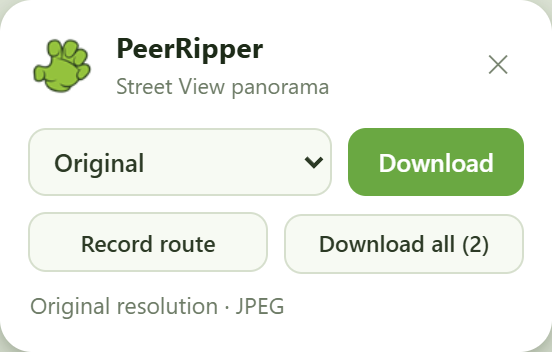
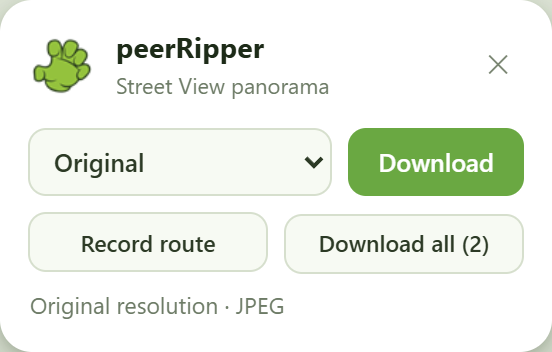
Fix product name casing to peerRipper

Changed region(s): [[0.1848, 0.0938, 0.4928, 0.1875]]

diff --git a/extension/popup.js b/extension/popup.js
@@ -1,4 +1,4 @@
-const api = globalThis.PeerRipperApi;
+const api = globalThis.peerRipperApi;
 const ZOOM_NAMES = { 5: 'Original', 4: 'Half', 3: 'Quarter' };
 const POLL_MS = 800;
 
@@ -60,10 +60,10 @@ function progressText(progress) {
 function noteText() {
     if (running) {
         return batch
-            ? `Downloading ${routeCount} panorama${routeCount === 1 ? '' : 's'} to PeerRipper/.`
+            ? `Downloading ${routeCount} panorama${routeCount === 1 ? '' : 's'} to peerRipper/.`
             : 'Keep this tab open. The file goes to Downloads.';
     }
-    if (!panoid) return 'Open Street View, then reopen PeerRipper.';
+    if (!panoid) return 'Open Street View, then reopen peerRipper.';
     if (recording) return `${routeCount} panorama${routeCount === 1 ? '' : 's'} captured. Move along the route.`;
     if (routeCount) {
         return `${routeCount} panorama${routeCount === 1 ? '' : 's'} recorded · ${ZOOM_NAMES[Number(el.zoom.value)]} resolution`;
@@ -125,7 +125,7 @@ function apply(state) {
         setDetail(panoid);
     } else {
         setStatus('No panorama found', 'bad');
-        setDetail('Enter Street View in this tab, then reopen PeerRipper.');
+        setDetail('Enter Street View in this tab, then reopen peerRipper.');
     }
     sync();
 }
@@ -183,7 +183,7 @@ async function init() {
         recording = false;
         routeCount = 0;
         setStatus('Open Google Maps first', 'bad');
-        setDetail('PeerRipper reads the live Street View panorama from the page.');
+        setDetail('peerRipper reads the live Street View panorama from the page.');
         sync();
         return;
     }

diff --git a/extension/content.js b/extension/content.js
@@ -6,7 +6,7 @@
     const PANOID_PATTERN = /^[A-Za-z0-9_-]{18,28}$/;
     const ROUTE_KEY = '__peerripper_route_v1';
     const MAX_ROUTE = 500;
-    const api = globalThis.PeerRipperApi;
+    const api = globalThis.peerRipperApi;
     const iconUrl = api.runtime.getURL('icons/icon48.png');
 
     const state = {
@@ -208,7 +208,7 @@
                 <header>
                     ${mark()}
                     <div class="titles">
-                        <h1>PeerRipper</h1>
+                        <h1>peerRipper</h1>
                         <p class="sub">Street View panorama</p>
                     </div>
                     <button class="close" type="button" title="Close">&#10005;</button>
@@ -520,8 +520,8 @@
             } else {
                 state.error = null;
                 state.result = Number(message.failures)
-                    ? `Saved ${message.saved} of ${message.count} · ${message.failures} unavailable — PeerRipper/`
-                    : `Saved ${message.saved} panorama${message.saved === 1 ? '' : 's'} — PeerRipper/`;
+                    ? `Saved ${message.saved} of ${message.count} · ${message.failures} unavailable — peerRipper/`
+                    : `Saved ${message.saved} panorama${message.saved === 1 ? '' : 's'} — peerRipper/`;
             }
             sync();
         } else if (message.type === 'pr:failed') {

diff --git a/extension/engine.js b/extension/engine.js
@@ -262,7 +262,7 @@
                         index,
                         count,
                         url: result.url,
-                        filename: `PeerRipper/${String(index + 1).padStart(3, '0')}_${panoids[index]}_${result.width}x${result.height}.jpg`,
+                        filename: `peerRipper/${String(index + 1).padStart(3, '0')}_${panoids[index]}_${result.width}x${result.height}.jpg`,
                         size: result.size,
                         width: result.width,
                         height: result.height,
@@ -296,5 +296,5 @@
         return Boolean(active);
     }
 
-    globalThis.PeerRipperEngine = { startJob, startBatch, cancel, revoke, isBusy };
+    globalThis.peerRipperEngine = { startJob, startBatch, cancel, revoke, isBusy };
 })();

diff --git a/extension/bridge-firefox.js b/extension/bridge-firefox.js
@@ -1,9 +1,9 @@
 // Firefox bridge: background pages have DOM and blob support, so the engine runs
 // inline instead of in an offscreen document.
 (() => {
-    const engine = globalThis.PeerRipperEngine;
+    const engine = globalThis.peerRipperEngine;
 
-    globalThis.PeerRipperBridge = {
+    globalThis.peerRipperBridge = {
         startJob(job, dispatch) {
             if (engine.isBusy()) return Promise.resolve({ ok: false, error: 'Another download is already running.' });
             engine.startJob(job, dispatch).catch(() => {});

diff --git a/extension/bridge-chromium.js b/extension/bridge-chromium.js
@@ -1,7 +1,7 @@
 // Chromium bridge: the service worker cannot create blob URLs, so downloads run in
 // an offscreen document.
 (() => {
-    const api = globalThis.PeerRipperApi;
+    const api = globalThis.peerRipperApi;
     const OFFSCREEN_URL = 'offscreen.html';
 
     let offscreenPromise = null;
@@ -43,7 +43,7 @@
         }
     }
 
-    globalThis.PeerRipperBridge = {
+    globalThis.peerRipperBridge = {
         startJob(job) {
             return start({ type: 'pr:run', job });
         },

diff --git a/extension/popup.html b/extension/popup.html
@@ -2,7 +2,7 @@
 <html lang="en">
 <head>
 <meta charset="utf-8">
-<title>PeerRipper</title>
+<title>peerRipper</title>
 <style>
     * { box-sizing: border-box; }
     body {
@@ -61,7 +61,7 @@
     <header>
         <img id="logo" alt="">
         <div>
-            <h1>PeerRipper</h1>
+            <h1>peerRipper</h1>
             <p class="sub">Street View panorama</p>
         </div>
     </header>

diff --git a/extension/api.js b/extension/api.js
@@ -1,3 +1,3 @@
 // Firefox exposes the promise-based `browser` namespace; Chromium exposes `chrome`,
 // whose MV3 APIs also return promises.
-globalThis.PeerRipperApi = globalThis.browser && globalThis.browser.runtime ? globalThis.browser : globalThis.chrome;
+globalThis.peerRipperApi = globalThis.browser && globalThis.browser.runtime ? globalThis.browser : globalThis.chrome;

diff --git a/extension/background-core.js b/extension/background-core.js
@@ -1,6 +1,6 @@
 (() => {
-    const api = globalThis.PeerRipperApi;
-    const bridge = globalThis.PeerRipperBridge;
+    const api = globalThis.peerRipperApi;
+    const bridge = globalThis.peerRipperBridge;
     const PANOID_PATTERN = /^[A-Za-z0-9_-]{18,28}$/;
     const MAX_BATCH = 500;
 

diff --git a/extension/offscreen.js b/extension/offscreen.js
@@ -1,5 +1,5 @@
 (() => {
-    const engine = globalThis.PeerRipperEngine;
+    const engine = globalThis.peerRipperEngine;
 
     function post(payload) {
         chrome.runtime.sendMessage(payload).catch(() => {});

diff --git a/extension/offscreen.html b/extension/offscreen.html
@@ -2,7 +2,7 @@
 <html>
 <head>
 <meta charset="utf-8">
-<title>PeerRipper download engine</title>
+<title>peerRipper download engine</title>
 </head>
 <body>
 <script src="stitcher.js"></script>

diff --git a/README.md b/README.md
@@ -1,17 +1,17 @@
-# PeerRipper
+# peerRipper
 
 **Download Google Street View panoramas as single, full-resolution JPEGs — stitched locally in your browser.**
 
 [![License: MIT](https://img.shields.io/badge/license-MIT-6aa842.svg)](LICENSE)
 [![Version](https://img.shields.io/badge/version-1.2.0-6aa842.svg)](extension/manifest.base.json)
 
-PeerRipper is a cross-browser extension for **Chrome, Edge, Opera, and Firefox**. When you are looking at a panorama in Google Maps Street View, it fetches the same 512 × 512 JPEG tiles Street View uses, works out the panorama's real tile canvas (for example 10240 × 5120), and splices those tiles into one file at the JPEG coefficient level. There is no server, no screenshotting, and no pixel re-encoding.
+peerRipper is a cross-browser extension for **Chrome, Edge, Opera, and Firefox**. When you are looking at a panorama in Google Maps Street View, it fetches the same 512 × 512 JPEG tiles Street View uses, works out the panorama's real tile canvas (for example 10240 × 5120), and splices those tiles into one file at the JPEG coefficient level. There is no server, no screenshotting, and no pixel re-encoding.
 
 It can also record a route while you move through Street View and download every panorama you visited in one batch.
 
 <p align="center">
-  <img src="docs/screenshots/card.png" width="300" alt="PeerRipper card on a Street View page">
-  <img src="docs/screenshots/popup.png" width="300" alt="PeerRipper toolbar popup">
+  <img src="docs/screenshots/card.png" width="300" alt="peerRipper card on a Street View page">
+  <img src="docs/screenshots/popup.png" width="300" alt="peerRipper toolbar popup">
 </p>
 
 ---
@@ -33,7 +33,7 @@ It can also record a route while you move through Street View and download every
 
 ## Features
 
-- **True full resolution.** PeerRipper probes the tile service to find the exact panorama canvas Google serves, instead of trusting the size hint in the URL. Original resolution can be 10240 × 5120 or larger.
+- **True full resolution.** peerRipper probes the tile service to find the exact panorama canvas Google serves, instead of trusting the size hint in the URL. Original resolution can be 10240 × 5120 or larger.
 - **Quality-preserving stitching.** Tiles are merged in the JPEG DCT domain. The image is never decoded to pixels and re-compressed, so the output retains the source tiles' quality and has no visible seams.
 - **Three resolutions.** Original (native tile resolution), Half, and Quarter for smaller files.
 - **Route recording.** Record the panoramas you visit while moving along a road or path, then download the whole route in one go. Up to 500 panoramas per route.
@@ -53,7 +53,7 @@ It can also record a route while you move through Street View and download every
 
 The Chromium builds use an MV3 service worker with an offscreen document for blob handling. The Firefox build uses an MV3 event page and runs the engine directly in the background page.
 
-> PeerRipper is not yet listed in the browser add-on stores. Build the package and load it locally, or use the ZIP as the upload artifact when submitting to a store.
+> peerRipper is not yet listed in the browser add-on stores. Build the package and load it locally, or use the ZIP as the upload artifact when submitting to a store.
 
 ## Installation
 
@@ -134,8 +134,8 @@ You can cancel at any time with the **Cancel** button. The extension shows the d
 Batch files are saved to a subfolder and numbered in capture order:
 
 ```
-Downloads/PeerRipper/001_<panoid>_<width>x<height>.jpg
-Downloads/PeerRipper/002_<panoid>_<width>x<height>.jpg
+Downloads/peerRipper/001_<panoid>_<width>x<height>.jpg
+Downloads/peerRipper/002_<panoid>_<width>x<height>.jpg
 …
 ```
 
@@ -181,7 +181,7 @@ Google Maps tab
                                              probe → fetch tiles → stitch → save
 ```
 
-- `api.js` exposes `PeerRipperApi`, which prefers the promise-based `browser.*` namespace and falls back to `chrome.*`.
+- `api.js` exposes `peerRipperApi`, which prefers the promise-based `browser.*` namespace and falls back to `chrome.*`.
 - `background-core.js` is browser-neutral: it owns job state, relays progress to the tab, and performs downloads.
 - On Chromium, `bridge-chromium.js` forwards work to an offscreen document (`offscreen.html`) that can create Blob URLs; `downloads.onDeterminingFilename` restores the intended filename for blob downloads.
 - On Firefox, `bridge-firefox.js` calls the engine inline in the background page.
@@ -252,21 +252,21 @@ npx web-ext lint --source-dir dist/firefox
 | `https://streetviewpixels-pa.googleapis.com/*` | Fetch Street View image tiles. |
 | Content script matches on Google Maps domains | Show the in-page pill and read the current panorama ID. |
 
-PeerRipper has **no analytics, telemetry, accounts, remote code, or backend**. The only outbound traffic is tile requests to Google. Recorded routes are stored in the Maps tab's `sessionStorage` and are never synced anywhere.
+peerRipper has **no analytics, telemetry, accounts, remote code, or backend**. The only outbound traffic is tile requests to Google. Recorded routes are stored in the Maps tab's `sessionStorage` and are never synced anywhere.
 
 ## Limitations
 
 - **Street View tiles only.** Photo spheres, some user-contributed uploads, and panoramas that are not served through the web tile service return HTTP 400/404 and cannot be downloaded this way. In batch mode they are skipped and reported.
-- **A panorama must be open.** PeerRipper reads the live panorama from the Maps tab; it does not accept bare place links or arbitrary coordinates.
+- **A panorama must be open.** peerRipper reads the live panorama from the Maps tab; it does not accept bare place links or arbitrary coordinates.
 - **Route capture follows your navigation.** Only panoramas you actually enter while recording are added. Panoramas that the page skips over are not captured.
 - **Resolution is discovered by probing.** Unusual panoramas may report a canvas different from the `!7i/!8i` hint, which is expected.
 - **Firefox temporary installs do not survive restart.** Permanent installation requires a signed build.
 - **Street View changes.** Google can change how Maps embeds panoramas or serves tiles; discovery may need updating when that happens.
-- **Use responsibly.** Download only imagery you are entitled to use, and respect Google's Terms of Service and applicable copyright. PeerRipper is not affiliated with, endorsed by, or sponsored by Google. Google Maps and Street View are trademarks of Google LLC.
+- **Use responsibly.** Download only imagery you are entitled to use, and respect Google's Terms of Service and applicable copyright. peerRipper is not affiliated with, endorsed by, or sponsored by Google. Google Maps and Street View are trademarks of Google LLC.
 
 ## FAQ
 
-**Does PeerRipper upload or collect anything?**
+**Does peerRipper upload or collect anything?**
 No. Everything runs in your browser, and no usage data leaves it.
 
 **Why does a panorama fail with "not served as Street View tiles"?**
@@ -279,7 +279,7 @@ Original resolution is the raw panorama (often 10240 × 5120). Choose Half or Qu
 No. It is assembled from the source JPEG tiles at the coefficient level, so it keeps the source detail rather than capturing the distorted, partially loaded canvas.
 
 **Where do batch files go?**
-To a `PeerRipper` folder inside your Downloads folder, numbered in the order they were recorded.
+To a `peerRipper` folder inside your Downloads folder, numbered in the order they were recorded.
 
 ## Contributing
 
@@ -291,4 +291,4 @@ Issues and pull requests are welcome. Before submitting a change:
 
 ## License
 
-[MIT](LICENSE) © 2026 PeerRipper contributors
+[MIT](LICENSE) © 2026 peerRipper contributors
